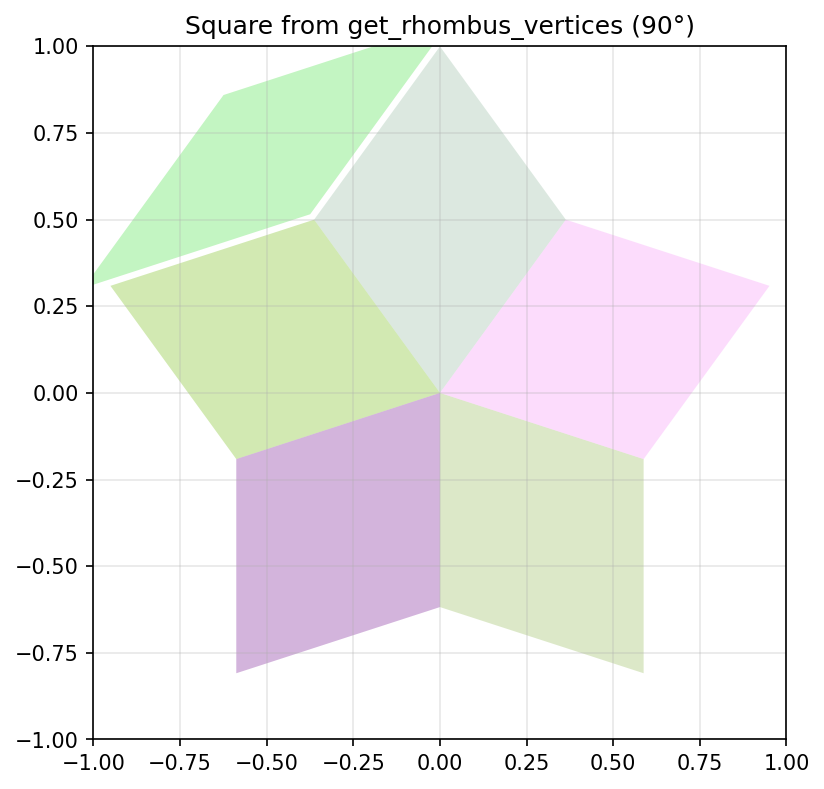
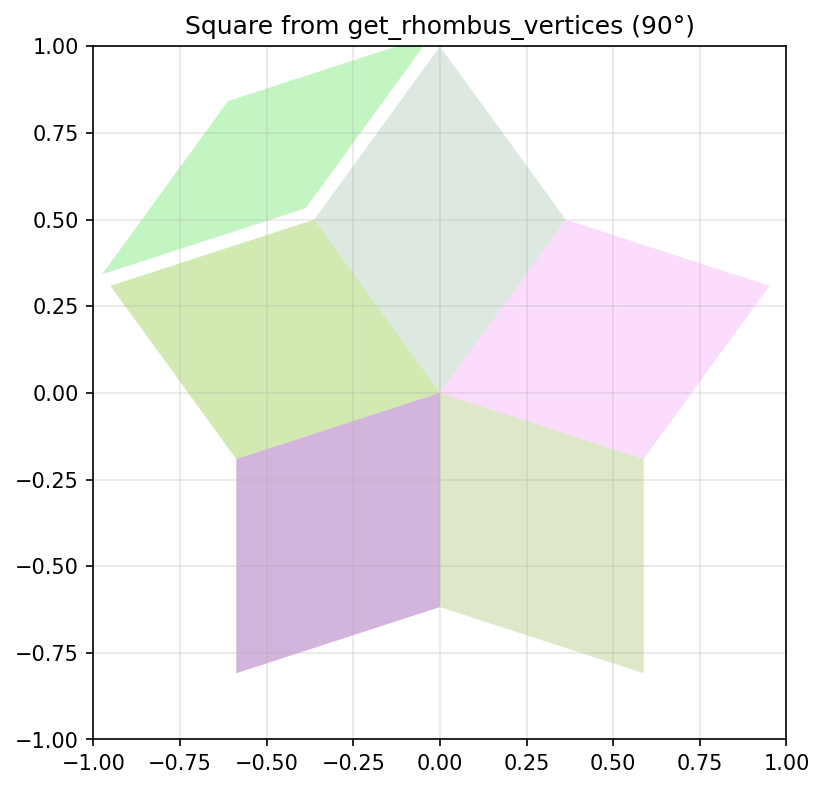
wow math works

diff --git a/test_main.py b/test_main.py
@@ -56,9 +56,10 @@ def test_square_tile():
 
     np.testing.assert_array_almost_equal(first_tile, expected_vertices, decimal=5)
 
+
 def calculate_edge_length_of_unit_height_rhombus(acute_angle: float) -> float:
     alpha = acute_angle / 2
-    return 2 * np.cos(np.radians(alpha))
+    return 0.5 / np.cos(np.radians(alpha))
 
 
 def test_calculate_edge_length_of_unit_height_rhombus():
@@ -74,19 +75,22 @@ def test_draw_square():
     """Test drawing a square using get_rhombus_vertices"""
     scale_factor = 1.0
 
-    acute_angle = 72
-    obtuse_angle = 180 - acute_angle  # 108 degrees
+    ft_acute_angle = 72
+    ft_obtuse_angle = 180 - ft_acute_angle  # 108 degrees
 
-    first_tile = get_rhombus_vertices((0.0, 0.5), 0, obtuse_angle, scale_factor=scale_factor)
-    second_tile = get_rhombus_vertices((0.0, 0.5), 72, obtuse_angle, scale_factor=scale_factor)
-    third_tile = get_rhombus_vertices((0.0, 0.5), 144, obtuse_angle, scale_factor=scale_factor)
-    fourth_tile = get_rhombus_vertices((0.0, 0.5), 216, obtuse_angle, scale_factor=scale_factor)
-    fifth_tile = get_rhombus_vertices((0.0, 0.5), 288, obtuse_angle, scale_factor=scale_factor)
+    st_acute_angle = 36
+    st_obtuse_angle = 180 - st_acute_angle  # 144 degrees
 
-    edge_length = calculate_edge_length_of_unit_height_rhombus(acute_angle)
+    first_tile = get_rhombus_vertices((0.0, 0.5), 0, ft_obtuse_angle, scale_factor=scale_factor)
+    second_tile = get_rhombus_vertices((0.0, 0.5), 72, ft_obtuse_angle, scale_factor=scale_factor)
+    third_tile = get_rhombus_vertices((0.0, 0.5), 144, ft_obtuse_angle, scale_factor=scale_factor)
+    fourth_tile = get_rhombus_vertices((0.0, 0.5), 216, ft_obtuse_angle, scale_factor=scale_factor)
+    fifth_tile = get_rhombus_vertices((0.0, 0.5), 288, ft_obtuse_angle, scale_factor=scale_factor)
 
+    edge_length = calculate_edge_length_of_unit_height_rhombus(ft_acute_angle)
+    print(f"edge_length: {edge_length}")
 
-    dart_long_length = edge_length * np.cos(np.radians(acute_angle / 2))
+    dart_long_length = 2 * edge_length * np.cos(np.radians(st_acute_angle / 2))  # long edge of dart
     dart_sf = dart_long_length * scale_factor
 
     first_dart = get_rhombus_vertices((0.0, 0.85), 36, 144, scale_factor=dart_sf, initial_rotation=90)
